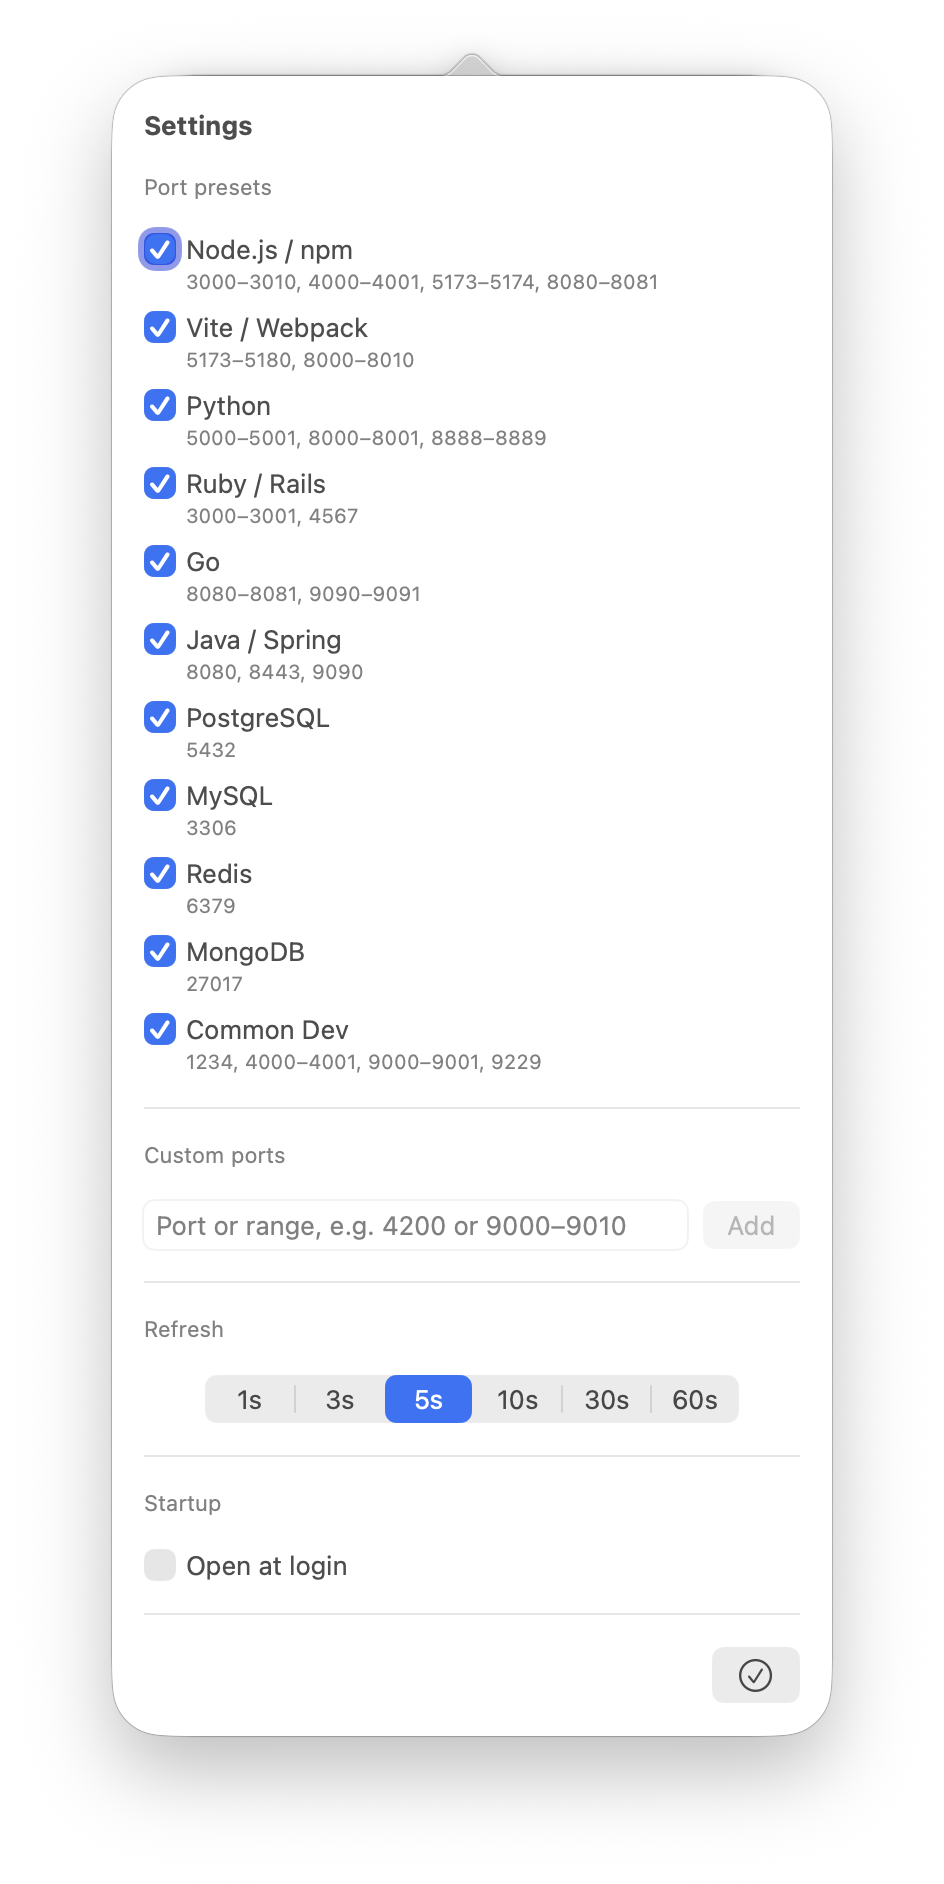
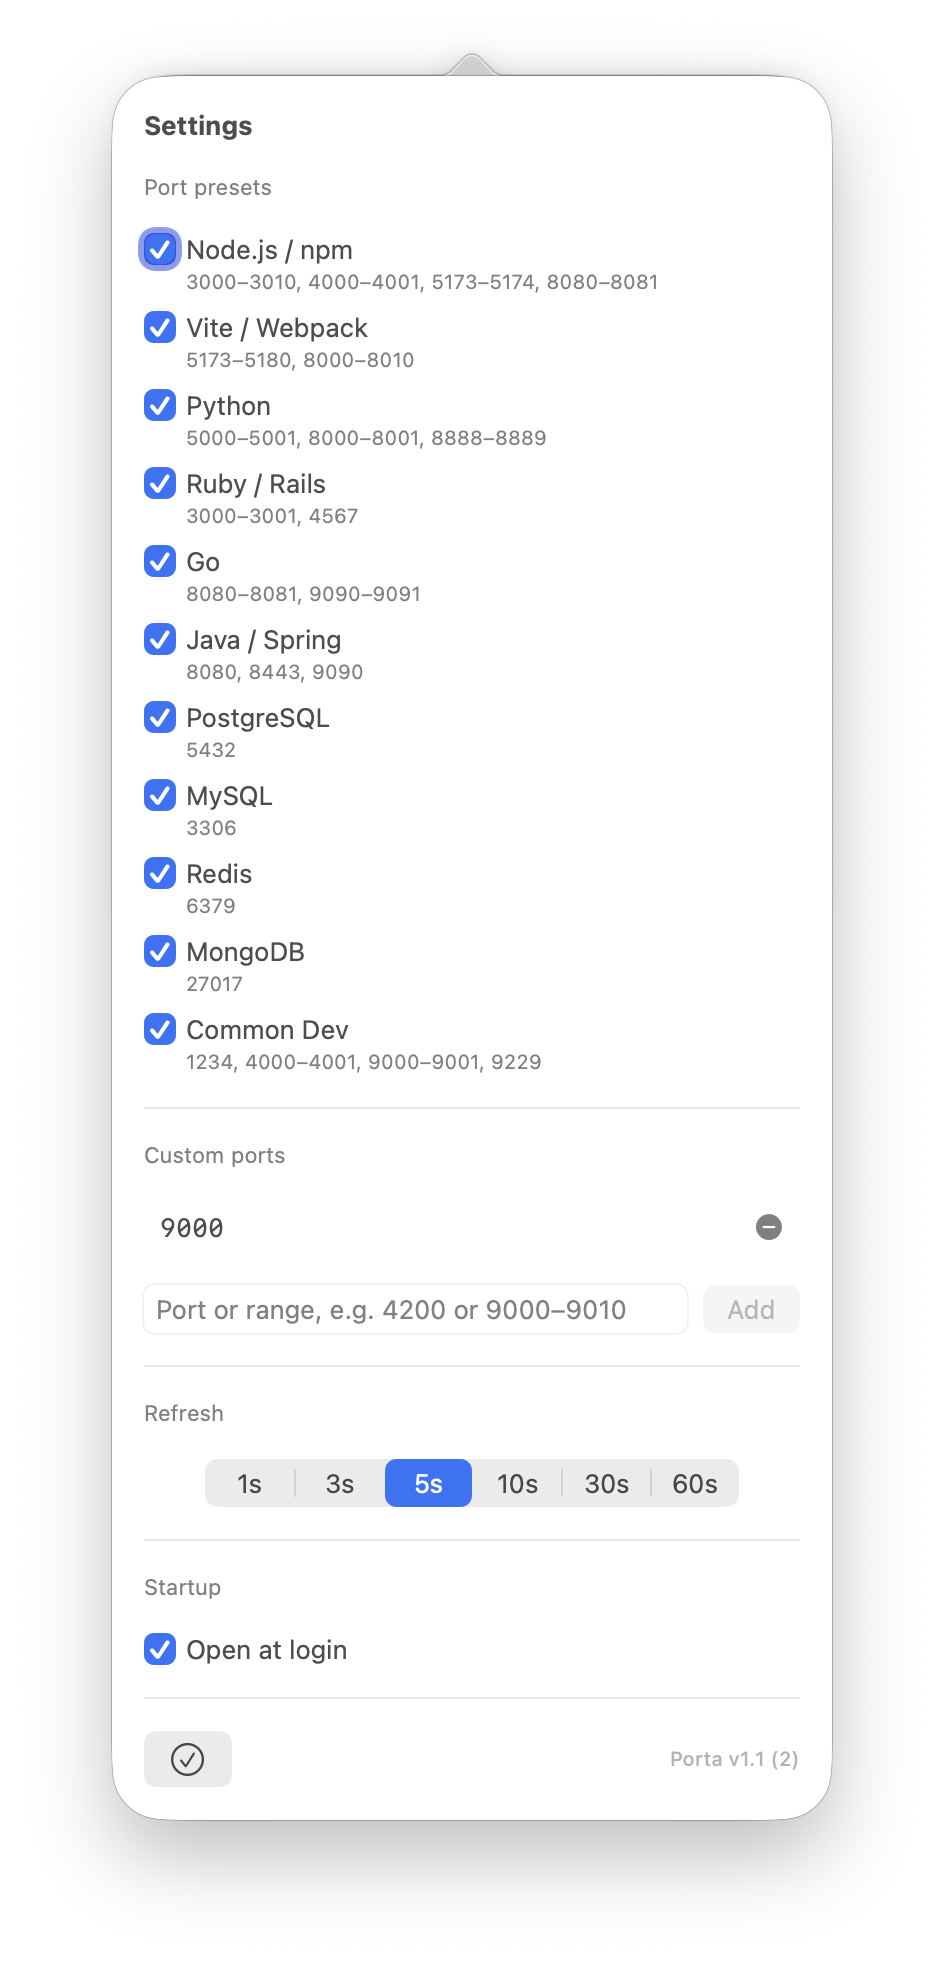
Add CHANGELOG and update landing page for v1.1
- Add CHANGELOG.md covering v1.0.0 and v1.1.0 (Keep a Changelog format)
- Link CHANGELOG from README
- Replace website screenshots with v1.1 versions
- Add 3 new capability cards: Monitor All Ports, Bilingual UI,
  Smart System Exclusion (completing the 3x3 grid)
- Add EN/ZH i18n translations for all 3 new cards

diff --git a/website/index.html b/website/index.html
@@ -160,6 +160,24 @@
           <p data-i18n-html="cap6Desc">Add individual port numbers or ranges (e.g. <code>9000–9010</code>) with per-entry validation. Flexible enough for any workflow.</p>
         </div>
 
+        <div class="cap-card">
+          <div class="cap-card__icon">📡</div>
+          <h3 data-i18n="cap7Title">Monitor All Ports</h3>
+          <p data-i18n="cap7Desc">One-tap toggle in the footer bypasses all preset and custom filters, showing every TCP LISTEN port instantly. macOS system daemons are always hidden.</p>
+        </div>
+
+        <div class="cap-card">
+          <div class="cap-card__icon">🌐</div>
+          <h3 data-i18n="cap8Title">Bilingual UI</h3>
+          <p data-i18n="cap8Desc">Switch between English and Simplified Chinese with a single tap. Language preference is remembered across sessions, independent of your OS locale.</p>
+        </div>
+
+        <div class="cap-card">
+          <div class="cap-card__icon">🚫</div>
+          <h3 data-i18n="cap9Title">Smart System Exclusion</h3>
+          <p data-i18n="cap9Desc">14 known macOS system daemons (ControlCenter, mDNSResponder, rapportd, and more) are always hidden, keeping the list focused on your dev processes.</p>
+        </div>
+
       </div>
     </div>
   </section>

diff --git a/website/js/i18n.js b/website/js/i18n.js
@@ -41,6 +41,12 @@ const translations = {
     cap5Desc:       "11 tool categories to toggle: Node.js/npm, Vite/Webpack, Python, Ruby/Rails, Go, Java/Spring, PostgreSQL, MySQL, Redis, MongoDB, and more.",
     cap6Title:      "Custom Ports & Ranges",
     cap6Desc:       "Add individual port numbers or ranges (e.g. <code>9000–9010</code>) with per-entry validation. Flexible enough for any workflow.",
+    cap7Title:      "Monitor All Ports",
+    cap7Desc:       "One-tap toggle in the footer bypasses all preset and custom filters, showing every TCP LISTEN port instantly. macOS system daemons are always hidden.",
+    cap8Title:      "Bilingual UI",
+    cap8Desc:       "Switch between English and Simplified Chinese with a single tap. Language preference is remembered across sessions, independent of your OS locale.",
+    cap9Title:      "Smart System Exclusion",
+    cap9Desc:       "14 known macOS system daemons (ControlCenter, mDNSResponder, rapportd, and more) are always hidden, keeping the list focused on your dev processes.",
     stackTitle:     "Tech Stack",
     stackSub:       "Built on macOS-native APIs. No framework overhead.",
     stackLang:      "Language",
@@ -104,6 +110,12 @@ const translations = {
     cap5Desc:       "11 个工具类别可按需开关：Node.js/npm、Vite/Webpack、Python、Ruby/Rails、Go、Java/Spring、PostgreSQL、MySQL、Redis、MongoDB 等。",
     cap6Title:      "自定义端口和范围",
     cap6Desc:       "支持添加单个端口号或端口范围（如 <code>9000–9010</code>），每条记录独立校验，灵活适配任意工作流。",
+    cap7Title:      "监控所有端口",
+    cap7Desc:       "底栏一键切换，跳过所有预设和自定义过滤器，立即显示全部 TCP 监听端口。macOS 系统进程始终被隐藏。",
+    cap8Title:      "双语界面",
+    cap8Desc:       "一键切换英文和简体中文，语言偏好跨会话保留，与系统语言设置完全独立。",
+    cap9Title:      "智能系统进程屏蔽",
+    cap9Desc:       "自动隐藏 14 个已知 macOS 系统守护进程（ControlCenter、mDNSResponder、rapportd 等），让列表始终聚焦在你的开发进程上。",
     stackTitle:     "技术栈",
     stackSub:       "基于 macOS 原生 API 构建，无框架负担。",
     stackLang:      "语言",

diff --git a/CHANGELOG.md b/CHANGELOG.md
@@ -1,0 +1,42 @@
+# Changelog
+
+All notable changes to Porta are documented here.
+Format follows [Keep a Changelog](https://keepachangelog.com/en/1.1.0/).
+
+## [1.1.0] - 2026-06-27
+
+### Added
+
+- **Simplified Chinese support** — in-app language switch via the translate icon in the header; preference is remembered across sessions, independent of OS locale
+- **Monitor All Ports toggle** — footer filter icon bypasses all preset and custom filters, showing every TCP LISTEN port instantly; macOS system daemons are always excluded
+- **Smart system daemon exclusion** — 14 known macOS system processes (ControlCenter, mDNSResponder, rapportd, and more) are always hidden, keeping the list focused on dev processes
+- **App version** shown in the Settings footer
+- Architecture documentation (`docs/architecture.md`)
+- Project landing page (<https://jameswei.github.io/porta/>)
+
+### Fixed
+
+- Popover layout stability when switching languages (fixed 340 pt width prevents reflow)
+- Default keyboard focus set to the refresh button on open
+
+## [1.0.0] - 2026-06-26
+
+### Added
+
+- **Scope badge** — each port card shows `local` (localhost-only) or `public` (all interfaces) at a glance
+- **Relative uptime** — displays how long the owning process has been running ("5h ago", "2 min ago") via `sysctl` + `RelativeDateTimeFormatter`
+- **PID display** + Activity Monitor shortcut — magnifying glass button copies the process name to the clipboard and opens Activity Monitor
+- **Validated custom ports list** — add/remove individual ports or ranges (e.g. `9000–9010`) with per-entry validation; replaces the earlier free-text input
+- **Segmented refresh interval picker** — choose 1 s / 3 s / 5 s / 10 s / 30 s / 60 s
+- **RJ45 status bar icon** — template image, adapts to light/dark menu bar automatically
+- **Launch at login** via `SMAppService`
+- **11 preset port-group categories** — Node.js/npm, Vite/Webpack, Python, Ruby/Rails, Go, Java/Spring, PostgreSQL, MySQL, Redis, MongoDB, Common Dev
+- **28 unit tests** covering port validation, lsof output parsing, and IPv4/IPv6 coalescing
+- GitHub Actions CI workflow (`xcodebuild test` on `macos-15`)
+- GitHub Actions release workflow — builds Release config, zips `Porta.app`, and publishes a GitHub Release on `v*.*.*` tags
+- Kill strategy: SIGTERM → 2 s wait → SIGKILL, with PID re-verification before signaling to guard against PID reuse
+
+### Fixed
+
+- Cursor penetration bug — `CursorCapturingView` with `NSTrackingArea` prevents click and cursor events from falling through to windows behind the popover
+- IPv4 and IPv6 entries for the same `(port, pid, process)` tuple are coalesced into a single row

diff --git a/README.md b/README.md
@@ -1,6 +1,6 @@
 # Porta
 
-**Project site:** https://jameswei.github.io/porta/
+**Project site:** https://jameswei.github.io/porta/ · **Changelog:** [CHANGELOG.md](./CHANGELOG.md)
 
 > A lightweight macOS menu-bar app that surfaces and kills orphan listening ports left by coding agents.
 